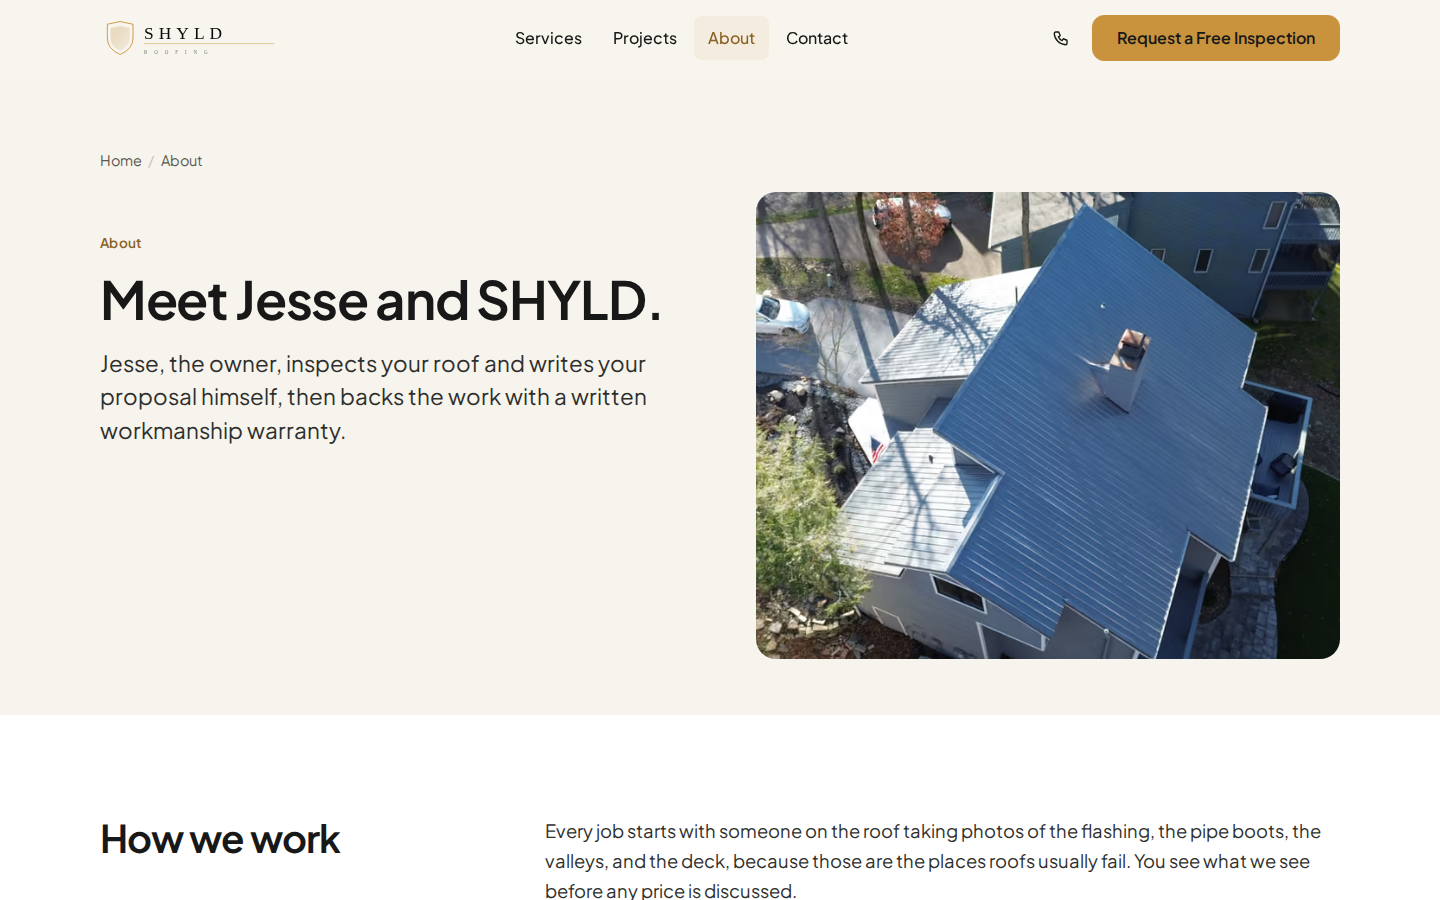
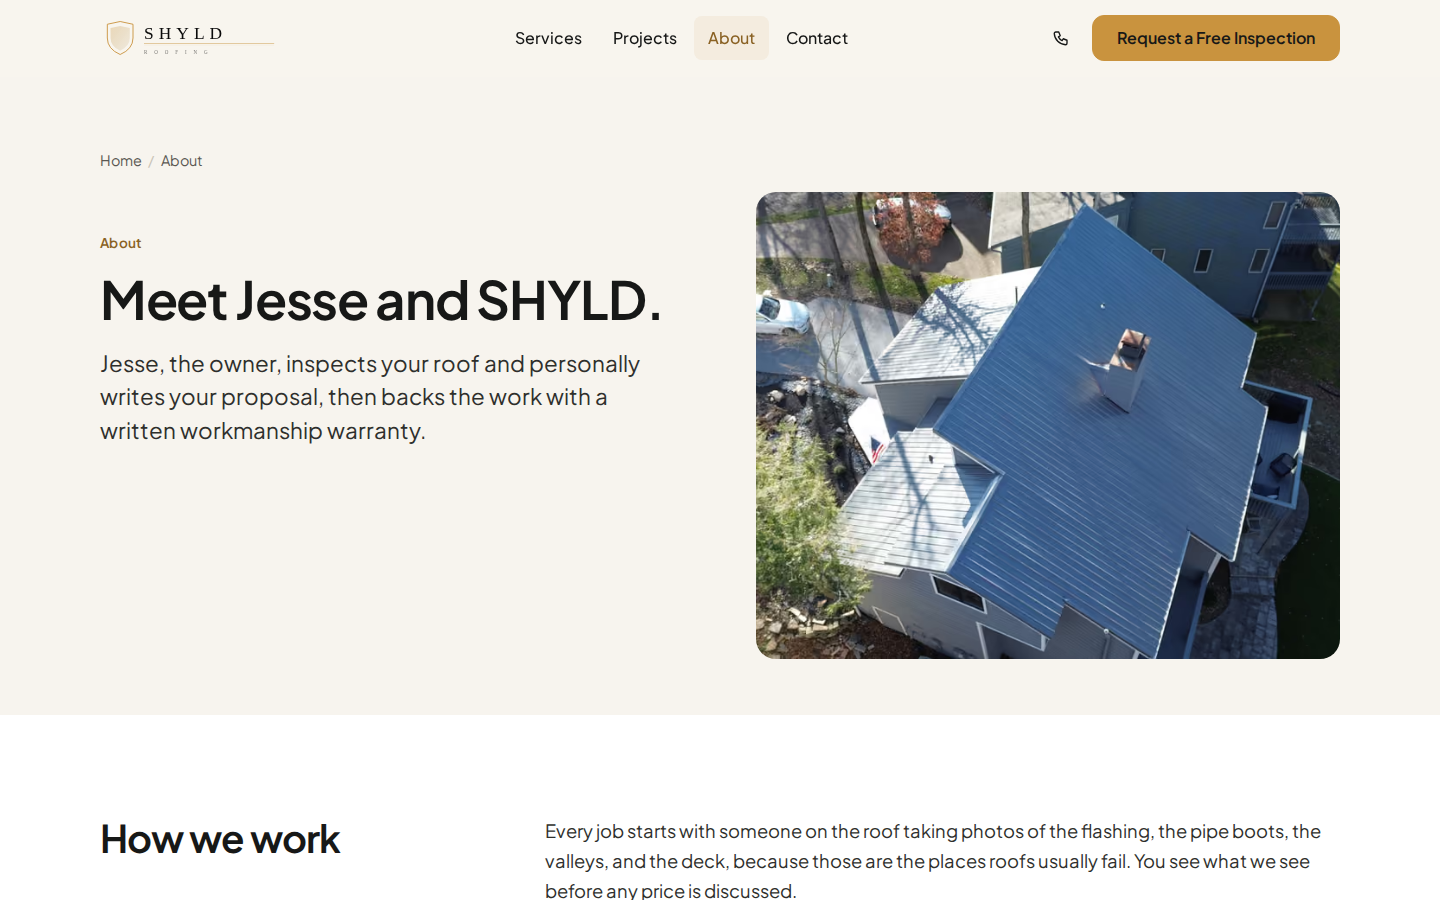
Verification evidence: README with commits, times, presets, results; e7e562d rechecks
Claude-Session: https://claude.ai/code/session_011p6P4yRyTPMQRCmveyjTJn

Changed region(s): [[0.0625, 0.3733, 0.4375, 0.4978]]

diff --git a/qa/preview-a4929aa/README.md b/qa/preview-a4929aa/README.md
@@ -1,0 +1,42 @@
+# Preview verification evidence
+
+Branch claude/jakarta-preview. Measured commit **a4929aa**. Follow up commit **e7e562d** changes one word in the About
+lede ("personally writes your proposal"); only about.html differs between the two builds, so e7e562d was rechecked with
+the crawl, the accessibility suite on /about, and About screenshots. Lighthouse was not rerun for e7e562d.
+
+All runs used a local build served by scripts/serve.mjs (same clean URL rules as the live host) on this session's
+machine, Chromium 141 headless. Local results do not predict field performance on the live host.
+
+## Automated checks
+
+| Check | Source commit | Time (UTC) | Tool and preset | Result | File |
+| --- | --- | --- | --- | --- | --- |
+| Type check | a4929aa | 2026-09-30 22:08 | astro check | 0 errors, 0 warnings, 3 hints | astro-check.txt |
+| Crawl, 30 sitemap pages | a4929aa | 22:08 | scripts/crawl.mjs, http://localhost:4403 | 245 assets, no problems | crawl.txt |
+| Accessibility and responsive | a4929aa | 22:08 | scripts/a11y.mjs: axe WCAG 2.2 AA on 11 routes, overflow at 360 to 1440, 200% zoom, menu keyboard, reduced motion, no JS | all passed | a11y.txt |
+| Mobile bar keyboard | a4929aa | 22:09 | Playwright, 390x844, http://localhost:4403/ | hidden: inert, aria-hidden, 0 bar links reached in 40 Tabs; visible again: reachable; bar keeps focus visible until focus leaves | mobile-bar-keyboard.txt |
+| Hero crop | a4929aa | 22:09 | Playwright, widths 390, 900, 1024, 1280, 1440 | roof inside frame at every width; 70% of photo width shown on desktop (lawn and driveway trimmed); no upscaling at 1x | hero-crop/ |
+| Lighthouse | a4929aa | 22:09:41 to 22:12:38 | Lighthouse 13.5.0, mobile and desktop presets, simulated throttling, 3 runs each, http://localhost:4403 on /, /about, /contact, /roofing-franklin | see medians below | lighthouse/ |
+| Crawl | e7e562d | 22:13 | scripts/crawl.mjs, http://localhost:4404 | 245 assets, no problems | crawl-e7e562d.txt |
+| Accessibility, /about | e7e562d | 22:13 | scripts/a11y.mjs ROUTES=/about | all passed | a11y-e7e562d-about.txt |
+
+Lighthouse medians (performance, accessibility, best practices, SEO | largest contentful paint, layout shift,
+blocking time, transfer):
+
+/ mobile: perf 99 a11y 100 bp 100 seo 100 | LCP 2108ms CLS 0 TBT 0ms 236KB
+/ desktop: perf 100 a11y 100 bp 100 seo 100 | LCP 505ms CLS 0 TBT 0ms 207KB
+/about mobile: perf 100 a11y 100 bp 100 seo 100 | LCP 1657ms CLS 0 TBT 0ms 87KB
+/about desktop: perf 100 a11y 100 bp 100 seo 100 | LCP 390ms CLS 0 TBT 0ms 103KB
+/contact mobile: perf 100 a11y 100 bp 100 seo 100 | LCP 1211ms CLS 0 TBT 0ms 42KB
+/contact desktop: perf 100 a11y 100 bp 100 seo 100 | LCP 331ms CLS 0 TBT 0ms 43KB
+/roofing-franklin mobile: perf 100 a11y 100 bp 100 seo 100 | LCP 1509ms CLS 0 TBT 0ms 80KB
+/roofing-franklin desktop: perf 100 a11y 100 bp 100 seo 100 | LCP 372ms CLS 0 TBT 0ms 92KB
+
+## Visual review (by eye, not automated)
+
+Screenshots in screens/: before = live https://shyldroofing.com at 2026-09-30T22:09:23Z,
+after = preview. Home, About, Contact, Franklin at 1440x900 and 390x844. About after images are from e7e562d.
+Reviewed: heading weight and size read firm without looking heavy; side by side hero shows the full roof; caption no
+longer covers the house; Franklin headline wraps to 2 lines on desktop and 3 on phones; no clipped text or overlap
+seen. Found and fixed during review: a gendered pronoun in the About lede (e7e562d). Known limit: the hero source
+is 1320 px wide, so it is soft on high density screens.
